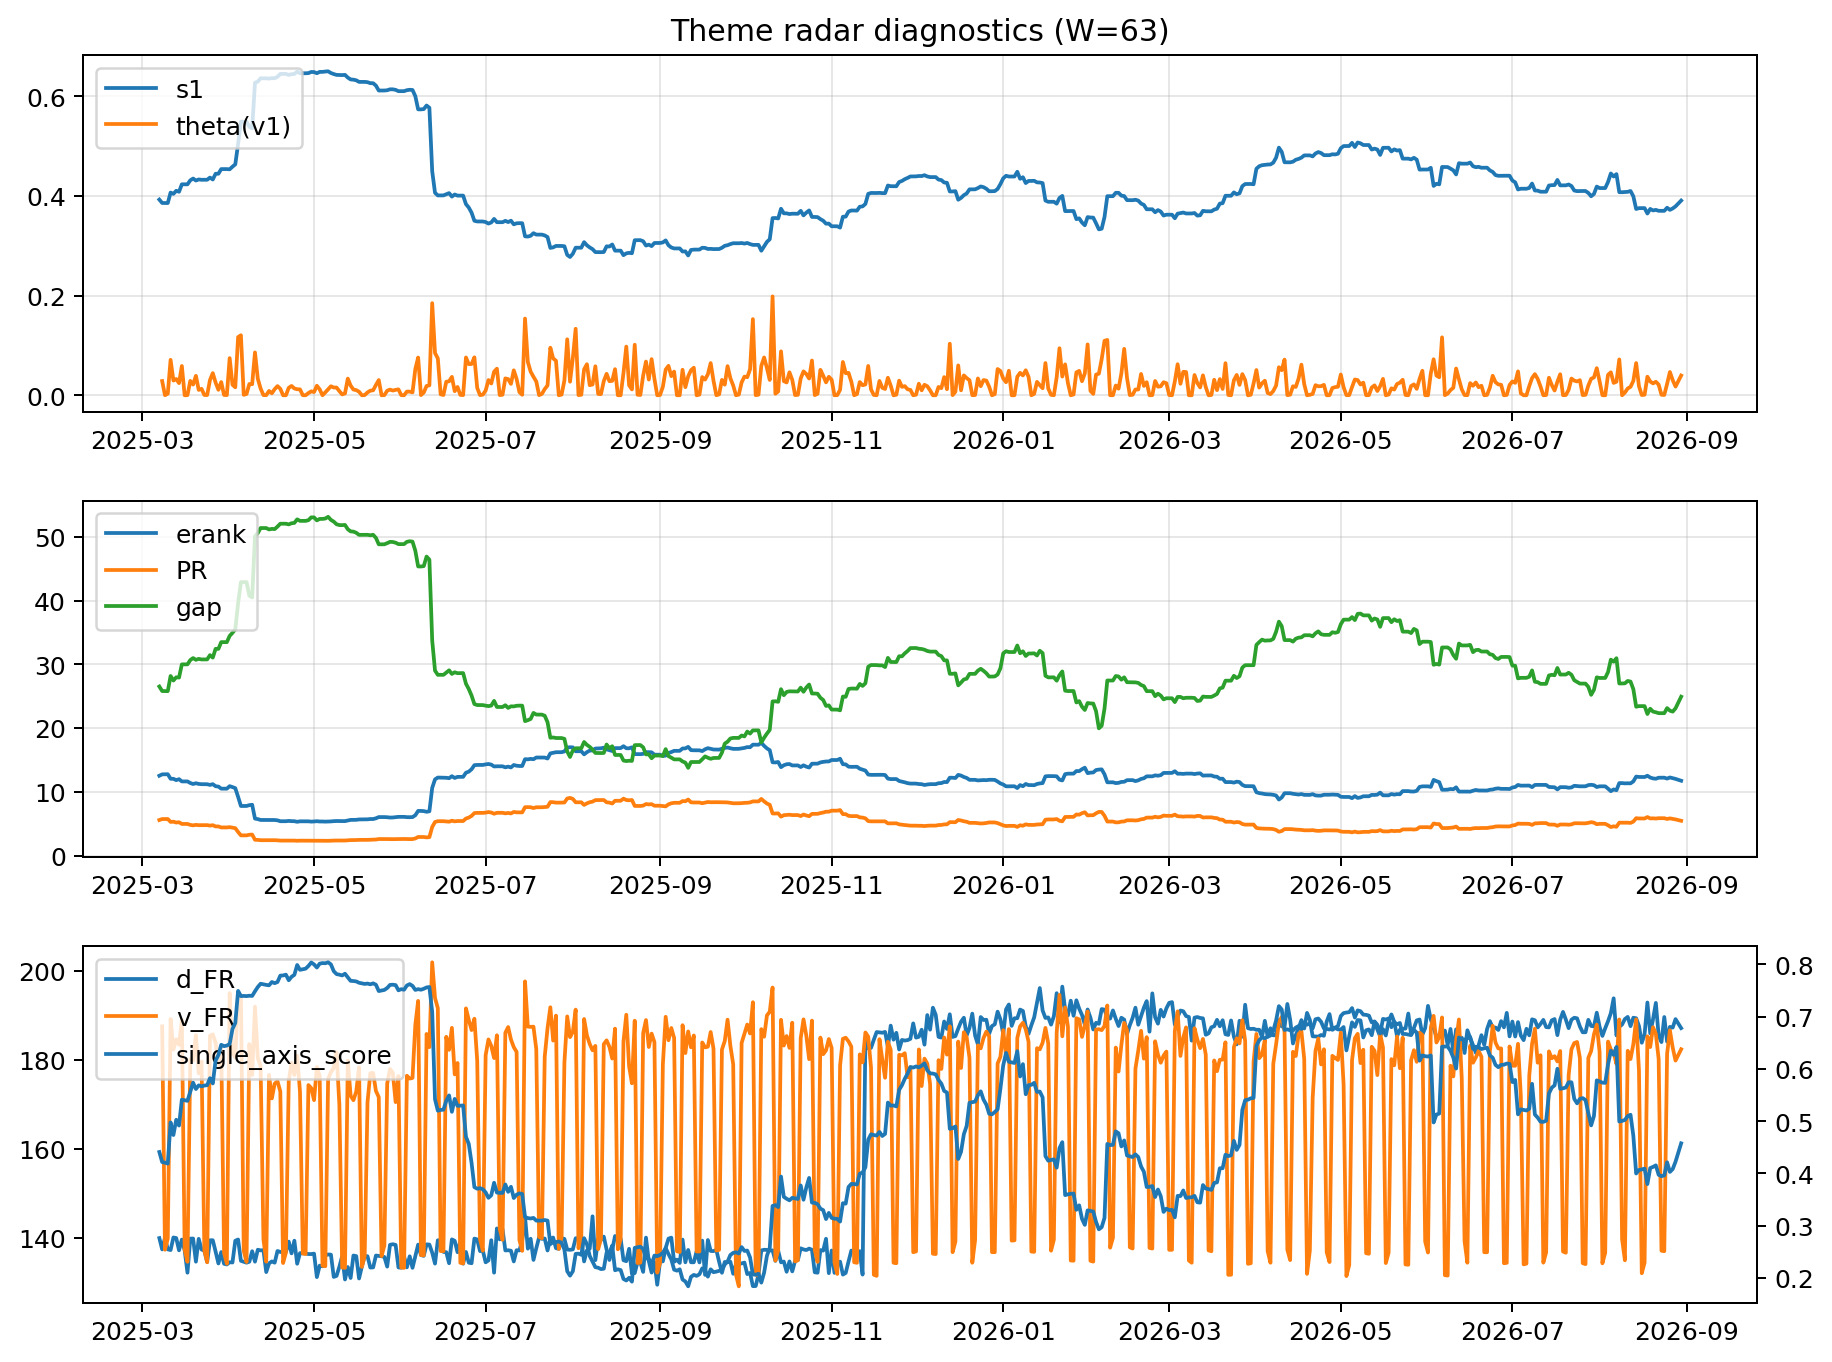
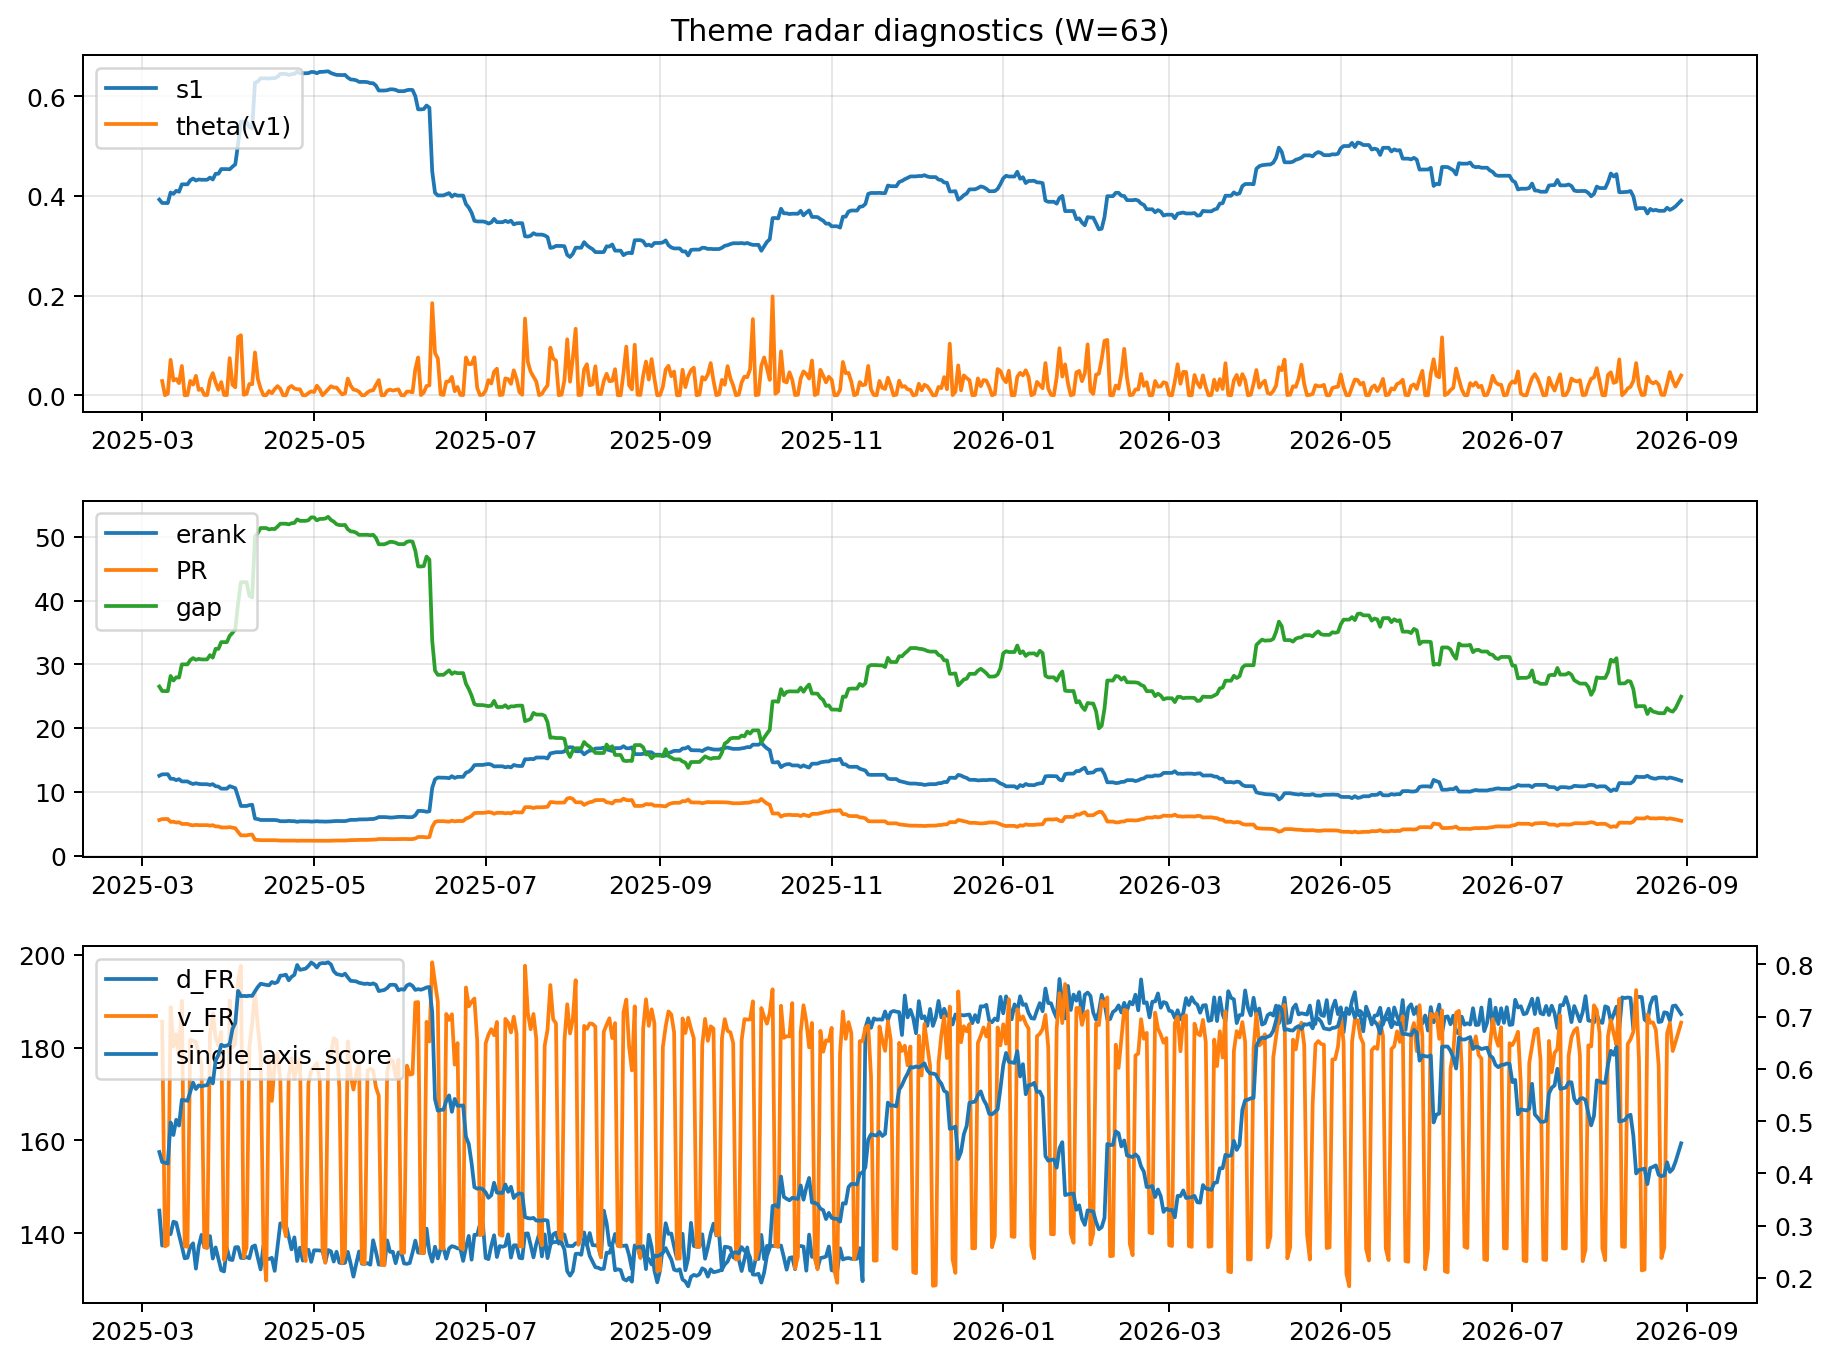
log: 2026-08-30 | sha256:30f86f3720f86461c6098d3bf9bcbefbf48eb567d72b79f2bfe7f45ea36f115e

diff --git a/logs/2026-08-30.md b/logs/2026-08-30.md
@@ -3,43 +3,43 @@
 ![diagnostic W63](../assets/diagnostic/2026-08-30_W63.png)
 
 ## Leaders (v1) — W=63
-- **Nuclear_Uranium** (0.0915669875680723)
-- Semis (0.0726782121496965)
-- Quantum (0.0652987299420618)
+- **Nuclear_Uranium** (0.0915669860973151)
+- Semis (0.0726782117527392)
+- Quantum (0.0652987295616635)
 
 ## Challengers — W=63
-**v2:** Rates (0.0912495906933327), Genomics_Bio (0.0861511672652234), Crypto (0.0776576445701271)
-**v3:** Software_Cloud (0.0858957640343368), Metals (0.0737610200842032), MegaCap_AI (0.063154012839837)
+**v2:** Rates (0.0912495907175014), Genomics_Bio (0.0861511701096293), Crypto (0.0776576500397923)
+**v3:** Software_Cloud (0.0858957551215608), Metals (0.073761031437367), MegaCap_AI (0.0631540110777631)
 
 ## Migration (20D slope) — W=63
 **Top risers:**
-- axis_Space: 0.0004354148767269
-- axis_Quantum: 0.0003459921948403
-- axis_Nuclear_Uranium: 0.0002556696380572
-- axis_Drones_Autonomy: 0.000146039985439
-- axis_Clean_Broad: 0.0001201800810285
-- axis_Genomics_Bio: 8.71093499194986e-05
-- axis_Sector_Utilities: 8.132624461791176e-05
-- axis_Semis: 7.934685257440223e-05
-- axis_DataCenter_Infra: 7.77584534111865e-05
-- axis_USD: 7.347506825600545e-05
+- axis_Space: 0.000435414652375
+- axis_Quantum: 0.0003459919819804
+- axis_Nuclear_Uranium: 0.0002556693838255
+- axis_Drones_Autonomy: 0.0001460398699818
+- axis_Clean_Broad: 0.0001201800687399
+- axis_Genomics_Bio: 8.710939628118114e-05
+- axis_Sector_Utilities: 8.132622234858536e-05
+- axis_Semis: 7.93468294263932e-05
+- axis_DataCenter_Infra: 7.77584602591794e-05
+- axis_USD: 7.347505178396717e-05
 
 **Top fallers:**
-- axis_Miners: -8.138409653652487e-05
-- axis_Sector_Comm: -8.195937087421616e-05
-- axis_Cyber: -0.0001032941089025
-- axis_Credit: -0.0001046123559289
-- axis_Sector_Materials: -0.0001094989384633
-- axis_Sector_ConsDisc: -0.0001325442214655
-- axis_MegaCap_AI: -0.0001607578128619
-- axis_Metals: -0.0002083492104941
-- axis_Rates: -0.0003228084112865
-- axis_Crypto: -0.0004527050489801
+- axis_Miners: -8.138413893546195e-05
+- axis_Sector_Comm: -8.195940040761533e-05
+- axis_Cyber: -0.0001032941988367
+- axis_Credit: -0.0001046109502273
+- axis_Sector_Materials: -0.0001094989109862
+- axis_Sector_ConsDisc: -0.0001325442189231
+- axis_MegaCap_AI: -0.000160757917396
+- axis_Metals: -0.0002083493779418
+- axis_Rates: -0.0003228083507085
+- axis_Crypto: -0.0004527051445832
 
 ## Risk line (W=63)
-- s1: 0.3906032447872849
-- theta_v1: 0.0396584526755294
-- v_FR: 182.33480379070087
+- s1: 0.3906032489032824
+- theta_v1: 0.0396584517878535
+- v_FR: 185.37612396876187
 - single_axis_score: 0.4576709796672828
 
 ## Interpretation
@@ -48,7 +48,7 @@
 - Action: Tomorrow watchlist: Space, Quantum, Nuclear_Uranium, Drones_Autonomy, Clean_Broad + v2_top1=Rates
 - Action: Hedge note: normal correlation stability.
 
-- Percentiles (W=63 history): vfr_pct=0.60, theta_pct=0.79, s1_pct=0.39, score_pct=0.42.
+- Percentiles (W=63 history): vfr_pct=0.79, theta_pct=0.79, s1_pct=0.39, score_pct=0.42.
 
 ---
[2 lines of base64/hex data omitted]
